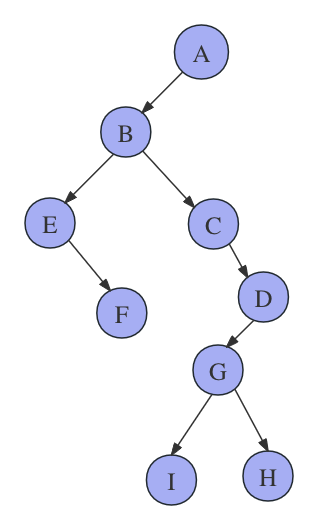
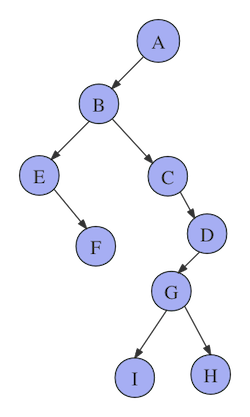
Adjust the images to fit the book

diff --git a/2.md b/2.md
@@ -627,20 +627,26 @@ DestroyList(*L);
 
 3. (多选)在下列叙述中，  (    )是错误的。
 
-  A. 线性表的逻辑顺序与物理顺序总是一致的
-  B. 二叉树的顺序存储结构比链式存储结构节省存储空间
-  C. 二叉树的度小于等于2
-  D. 每种数据结构都具有两种基本运算(操作):插入、删除元素(结点)
+    A. 线性表的逻辑顺序与物理顺序总是一致的
+
+    B. 二叉树的顺序存储结构比链式存储结构节省存储空间
+
+    C. 二叉树的度小于等于2
+
+    D. 每种数据结构都具有两种基本运算(操作):插入、删除元素(结点)
 
 4. 能在O(1)  时间内访问线性表的第i 个元素的结构是(  )。
     A. 顺序表          B. 单链表           C. 单向循环链表     D.  双向链表
 
 5. 下面关于线性表的叙述中，错误的是哪一个?(   )
 
-  A. 线性表采用顺序存储，必须占用一片连续的存储单元
-  B. 线性表采用顺序存储，便于进行插入和删除操作
-  C. 线性表采用链接存储，不必占用一片连续的存储单元
-  D. 线性表采用链接存储，便于插入和删除操作
+    A. 线性表采用顺序存储，必须占用一片连续的存储单元
+
+    B. 线性表采用顺序存储，便于进行插入和删除操作
+
+    C. 线性表采用链接存储，不必占用一片连续的存储单元
+
+    D. 线性表采用链接存储，便于插入和删除操作
 
 6. 线性表是具有n 个 (   )的有限序列 (n>0)。
     A. 表元素           B.  字符             C. 数据元素         D.  数据项
@@ -663,59 +669,64 @@ DestroyList(*L);
     C. 带尾指针的单循环链表                D. 带头结点的双循环链表
 
 11. 若某线性表最常用的操作是在最后一个结点之后插入一个结点或删除最后一个结点，则采
-    用存储结构算法的时间效率最高的是(   )。  【北京理工大学2006 五、5(1分)】
-    A. 单链表                              B. 给出表尾指针的单循环链表
-    C. 双向链表                            D.  给出表尾指针的双向循环链表
+     用存储结构算法的时间效率最高的是(   )。  【北京理工大学2006 五、5(1分)】
+     A. 单链表                              B. 给出表尾指针的单循环链表
+     C. 双向链表                            D.  给出表尾指针的双向循环链表
 
-12. 1对于一个线性表既要求能够进行较快速的插入和删除，又要求存储结构能反映数据之间的
-    逻辑关系，则应该用(   )。
-    A. 顺序存储方式   B.  链式存储方式     C. 散列存储方式     D.  以上均可以
+12. 1对于一个线性表既要求能够进行较快速的插入和删除，又要求存储结构能反映数据之间的逻辑关系，则应该用(   )。
+     A. 顺序存储方式   B.  链式存储方式     C. 散列存储方式     D.  以上均可以
 
 13. 在线性表的下列存储结构中，读取元素花费时间最少的是(   )。
-    A. 顺序表          B. 单链表          C. 双向链表         D. 循环链表
+     A. 顺序表          B. 单链表          C. 双向链表         D. 循环链表
 
 14. 若线性表最常用的操作是存取第I 个元素及其前驱和后继元素的值，为节省时间应采用的存 储方式(   )。
-    A. 单链表          B. 双向链表         C.  单循环链表       D.  顺序表
+     A. 单链表          B. 双向链表         C.  单循环链表       D.  顺序表
 
 15. 15.在链式存储结构中，数据之间的关系是通过(   )体现的。
-    A. 数据在内存的相对位置                B.  指示数据元素的指针
-    C. 数据的存储地址                      D. 指针
+     A. 数据在内存的相对位置                B.  指示数据元素的指针
+     C. 数据的存储地址                      D. 指针
 
 16. 静态链表中指针表示的是(   )。  
-    A. 下一元素的地址                      B. 内存储器的地址
-    C. 下一元素在数组中的位置             D.  左链或右链指向的元素的地址
+     A. 下一元素的地址                      B. 内存储器的地址
+     C. 下一元素在数组中的位置             D.  左链或右链指向的元素的地址
 
 17. 链表不具有的特点是(    )。
-A. 插入、删除不需要移动元素           B. 可随机访问任一元素
-C. 不必事先估计存储空间                D. 所需空间与线性长度成正比
+     A. 插入、删除不需要移动元素           B. 可随机访问任一元素
+     C. 不必事先估计存储空间                D. 所需空间与线性长度成正比
 
-17. 18.在 n 个结点的线性表的数组实现中，算法的时间复杂性是 O(1)的操作是(  )。
-A. 访问第i 个结点(1≤i≤n)   和求第i 个结点的直接前驱(2≤i≤n)
-B. 在第i 个结点后插入一个新结点(1≤i≤n)
-C. 删除第i个结点(1≤i≤n)
-D. 以上都不对
+18. 18.在 n 个结点的线性表的数组实现中，算法的时间复杂性是 O(1)的操作是(  )。
+     A. 访问第i 个结点(1≤i≤n)   和求第i 个结点的直接前驱(2≤i≤n)
+     B. 在第i 个结点后插入一个新结点(1≤i≤n)
+     C. 删除第i个结点(1≤i≤n)
+     D. 以上都不对
 
-17. (1)静态链表既有顺序存储的优点，又有动态链表的优点。所以，它存取表中第i 个元素的时间与i无关。
-(2)静态链表中能容纳的元素个数的最大数在表定义时就确定了，以后不能增加。
+19. (1)静态链表既有顺序存储的优点，又有动态链表的优点。所以，它存取表中第i 个元素的时间与i无关。
+     (2)静态链表中能容纳的元素个数的最大数在表定义时就确定了，以后不能增加。
 
-(3)静态链表与动态链表在元素的插入、删除上类似，不需做元素的移动。
-以上错误的是(    )。
-A.(1),(2)                   B.(1)                                C.(1),(2),(3)               D.(2)
+     (3)静态链表与动态链表在元素的插入、删除上类似，不需做元素的移动。以上错误的是(    )。
+
+     A.(1),(2)                   B.(1)                                C.(1),(2),(3)               D.(2)
 
 20. 静态链表与动态链表相比，其缺点是(    )。
-A. 插入、删除时需移动较多数据          B. 有可能浪费较多存储空间
-C.  不能随机存取                        D. 以上都不是
+    A. 插入、删除时需移动较多数据          B. 有可能浪费较多存储空间
+    C.  不能随机存取                        D. 以上都不是
+
 21. 若长度为n 的线性表采用顺序存储结构，在其第i 个位置插入一个新元素的算法的时间复杂 度 为 (   )(1≤ i≤n+1)。
-A.O(0)                          B.O(1)                             C.O(n)                             D.O(n²)
+    A.O(0)                          B.O(1)                             C.O(n)                             D.O(n²)
+
 22. 若长度为n 的线性表采用顺序存储结构，在其第i(1≤i≤n+1)    个位置之前插入一个新元素的 算法的移动结点的平均次数为(   )。  
-A.n                               B.n/2                               C.(n-1)/2                        D.(n+1)/2
+    A.n                               B.n/2                               C.(n-1)/2                        D.(n+1)/2
+
 23. 从一个长度为n 的顺序表中删除第i个元素(1≤i≤n)时，需向前移动(  )个元素。【
-A.n-i                             B.n-i+1                            C.n-i-1                            D.i
+    A.n-i                             B.n-i+1                            C.n-i-1                            D.i
+
 24. 对顺序存储的线性表，设其长度为n,  在任何位置上插入或删除操作都是等概率的。删除一 个元素时平均要移动表中的(   )个元素。
-A.n/2                            B.(n+1)/2                        C.(n-1)/2                         D.n
+    A.n/2                            B.(n+1)/2                        C.(n-1)/2                         D.n
+
 25. 线性表 (al,a2,…,an)        以链接方式存储时，访问第i 个位置元素的时间复杂性为(    )。
 
-A.O(i)                           B.O(1)                             C.O(n)                             D.O(i-1)
+    A.O(i)                           B.O(1)                             C.O(n)                             D.O(i-1)
+
 26. 在一个单链表中，已知指针 p 指向其中的某个结点，若在该结点前插入一个由指针s 指向
 的结点，则需执行(   )。 
 A.s->next=p->next;p->next=s;                            B.p->next=s;s->next=p;
@@ -734,4 +745,12 @@ A.0                                B.1                                   C.2    
 | ---- | ---- | ----- | ---- | ---- | ---- | ---- | ----- | ---- | ---- |
 | 11.D | 12.B | 13.A  | 14.D | 15.D | 16.C | 17.B | 18.A  | 19.B | 20.B |
 | 21.C | 22.B | 23.A  | 24.C | 25.C | 26.D | 27.D | 28.AC |      |      |
+
+
+
+
+
+
+
+
 

diff --git a/5.md b/5.md
@@ -125,7 +125,7 @@ graph TB
 
 比如下图 5-4的例子，结点总数为10，它是由A、B、C、D等度为2结点，F、G、H、I、J等度为0的叶子结点和E这个度为1的结点组成。总和为4+1+5=10。
 
-![](./assets/5-4.svg)
+<img src="./assets/5-4.svg" style="zoom:67%;" />
 
 
 
@@ -398,13 +398,11 @@ graph TB
 
 那么我们线索话之后的结果为
 
-| ![Screen Shot 2023-11-14 at 13.43.07](./assets/Screen%20Shot%202023-11-14%20at%2013.43.07.png) | ![image-20231114134556555](./assets/image-20231114134556555.png) |
-| :----------------------------------------------------------: | :----------------------------------------------------------: |
-|                          先序线索化                          |                          中序线索化                          |
+| ![Screen Shot 2023-11-14 at 13.43.07](./assets/Screen%20Shot%202023-11-14%20at%2013.43.07.png) | ![image-20231114134556555](./assets/image-20231114134556555.png) | ![](./assets/Screen%20Shot%202023-11-14%20at%2013.44.01.png) |
+| :----------------------------------------------------------: | :----------------------------------------------------------: | :----------------------------------------------------------: |
+|                          先序线索化                          |                          中序线索化                          |                          后序线索化                          |
 
-| <img src="./assets/Screen%20Shot%202023-11-14%20at%2013.44.01.png" alt="Screen Shot 2023-11-14 at 13.44.01" style="zoom:50%;" /> |
-| :----------------------------------------------------------: |
-|                          后序线索化                          |
+
 
 
 ### 优势
@@ -530,7 +528,6 @@ m叉哈夫曼树只有度为0和m的节点。
 
 
 ```mermaid
-
 graph TD
     8((8))
     3((3))
@@ -624,8 +621,8 @@ NULL7[NULL]
 首先我们需要明确，在什么时候、如何进行左旋或右旋操作，这就需要分情况讨论：
 
 + 情况一：LL
-  <img src="./assets/8ee26f4d57fca374cd315bc00fd18ee4.png" style="zoom:100%;" />  
-  上图中所示的三种不平衡的情况，都是根节点的左孩子的左孩子（LL）所造成，即因为LL本身或LL身上挂载了其他节点，造成了根节点的不平衡。这种情况下我们只需要对根节点进行一次右旋操作，即可恢复平衡。
++ ![](./assets/8ee26f4d57fca374cd315bc00fd18ee4.png)
+  上图中所示的三种不平衡的情况，都是根节点的左孩子的左孩子（LL)所造成，即因为LL本身或LL身上挂载了其他节点，造成了根节点的不平衡。这种情况下我们只需要对根节点进行一次右旋操作，即可恢复平衡。
   调整后如下图：
   ![](./assets/db975b8a3af71c9cf11f4f3b1308eebf.png)
   在进行LL调整后：
@@ -813,8 +810,8 @@ graph TB
 
 
 ```mermaid
-graph LR
-subgraph "A(C(D,F))" 如下图所示
+graph TB
+subgraph "A(C(D,F))" 如下图所示 
 A((A))
 D((D))
 F((F))

diff --git a/id.md b/id.md
@@ -82,43 +82,44 @@
   7.2 广义表的原子和子表
   7.3 广义表的存储结构
   7.4 答案
-  7.5 串的定义
-  7.6 什么是子串
-  7.7 基本操作
-  7.8 串的存储结构
-  7.9 字符串的模式匹配算法
-  7.10 习题
-  7.11 答案
-第8章 查找
-  8.1 什么是查找
-  8.2 查找算法
-  8.3 分块查找
-  8.4 B-树
-  8.5 跳表(skiplist)
-  8.6 并查集(Union-Find Set)
-  8.7 哈希表（散列表）（重点）
-  8.8 配对堆（了解）
-  8.9 拓展知识点
-  8.10 习题
-  8.11 答案
-第9章 排序
-  9.1 什么是排序
-  9.2 排序算法
-  9.3 评价标准
-  9.4 排序的策略
-  9.5 冒泡排序(bubble sort)
-  9.6 插入排序(insertion sorting)
-  9.7 选择排序(selection sort)
-  9.8 快速排序(Fast Sort)
-  9.9 归并排序(merge sort)
-  9.10 堆排序(heap sort)
-  9.11 希尔排序(Shell sort)
-  9.12 基数排序(Radix Sort)
-  9.13 外部排序
-  9.14 败者树实现内部归并
-  9.15 拓展速背
-  9.16 习题
-第10章 一些常见的算法
-  10.1 贪心算法
-  10.2 分治算法
-  10.3 回溯算法
+第8章 串
+  8.1 串的定义
+  8.2 什么是子串
+  8.3 基本操作
+  8.4 串的存储结构
+  8.5 字符串的模式匹配算法
+  8.6 习题
+  8.7 答案
+第9章 查找
+  9.1 什么是查找
+  9.2 查找算法
+  9.3 分块查找
+  9.4 B-树
+  9.5 跳表(skiplist)
+  9.6 并查集(Union-Find Set)
+  9.7 哈希表（散列表）（重点）
+  9.8 配对堆（了解）
+  9.9 拓展知识点
+  9.10 习题
+  9.11 答案
+第10章 排序
+  10.1 什么是排序
+  10.2 排序算法
+  10.3 评价标准
+  10.4 排序的策略
+  10.5 冒泡排序(bubble sort)
+  10.6 插入排序(insertion sorting)
+  10.7 选择排序(selection sort)
+  10.8 快速排序(Fast Sort)
+  10.9 归并排序(merge sort)
+  10.10 堆排序(heap sort)
+  10.11 希尔排序(Shell sort)
+  10.12 基数排序(Radix Sort)
+  10.13 外部排序
+  10.14 败者树实现内部归并
+  10.15 拓展速背
+  10.16 习题
+第11章 一些常见的算法
+  11.1 贪心算法
+  11.2 分治算法
+  11.3 回溯算法

diff --git a/6.md b/6.md
@@ -911,11 +911,12 @@ $O(n^3)$
 
 3. 再假设 v1，v2 作为中转点。此时 v5 可以经 v2 访问到 v1 和 v3，在没有中转的情况下，v5 到 v1 和 v3 的最短距离都是无穷大，因此各个顶点之间的最短路径距离将会被更新。
 
-   ![在这里插入图片描述](./assets/watermark,type_ZmFuZ3poZW5naGVpdGk,shadow_10,text_aHR0cHM6Ly9ibG9nLmNzZG4ubmV0L3podXhpYW4xMjc3,size_16,color_FFFFFF,t_70-20230510121048137.png)
+|![在这里插入图片描述](./assets/watermark,type_ZmFuZ3poZW5naGVpdGk,shadow_10,text_aHR0cHM6Ly9ibG9nLmNzZG4ubmV0L3podXhpYW4xMjc3,size_16,color_FFFFFF,t_70-20230510121048137.png)|   ![在这里插入图片描述](./assets/watermark,type_ZmFuZ3poZW5naGVpdGk,shadow_10,text_aHR0cHM6Ly9ibG9nLmNzZG4ubmV0L3podXhpYW4xMjc3,size_16,color_FFFFFF,t_70-20230510121715546.png)|
+|:-:|:-:|
+|||
+
 
    再假设 v1，v2，v3 作为中转点。此时 v1 经 v3 访问 v2 的距离小于直接访问 v2 的距离（即 dis[v1][v3] + dis[v3][v2] < dis[v1][v2])，因此 v1 到 v2 的最短距离将会被更新；同时由于 v1 需经 v2 中转访问 v5，因此 v1 到 v5 的最短距离也要同步更新。
-
-   ![在这里插入图片描述](./assets/watermark,type_ZmFuZ3poZW5naGVpdGk,shadow_10,text_aHR0cHM6Ly9ibG9nLmNzZG4ubmV0L3podXhpYW4xMjc3,size_16,color_FFFFFF,t_70-20230510121715546.png)
 
    再假设 v1，v2，v3，v4 作为中转点。由于 v4 是一个孤立的中转点因此，因此各个顶点之间的最短路径并未发生真正变化。
 
